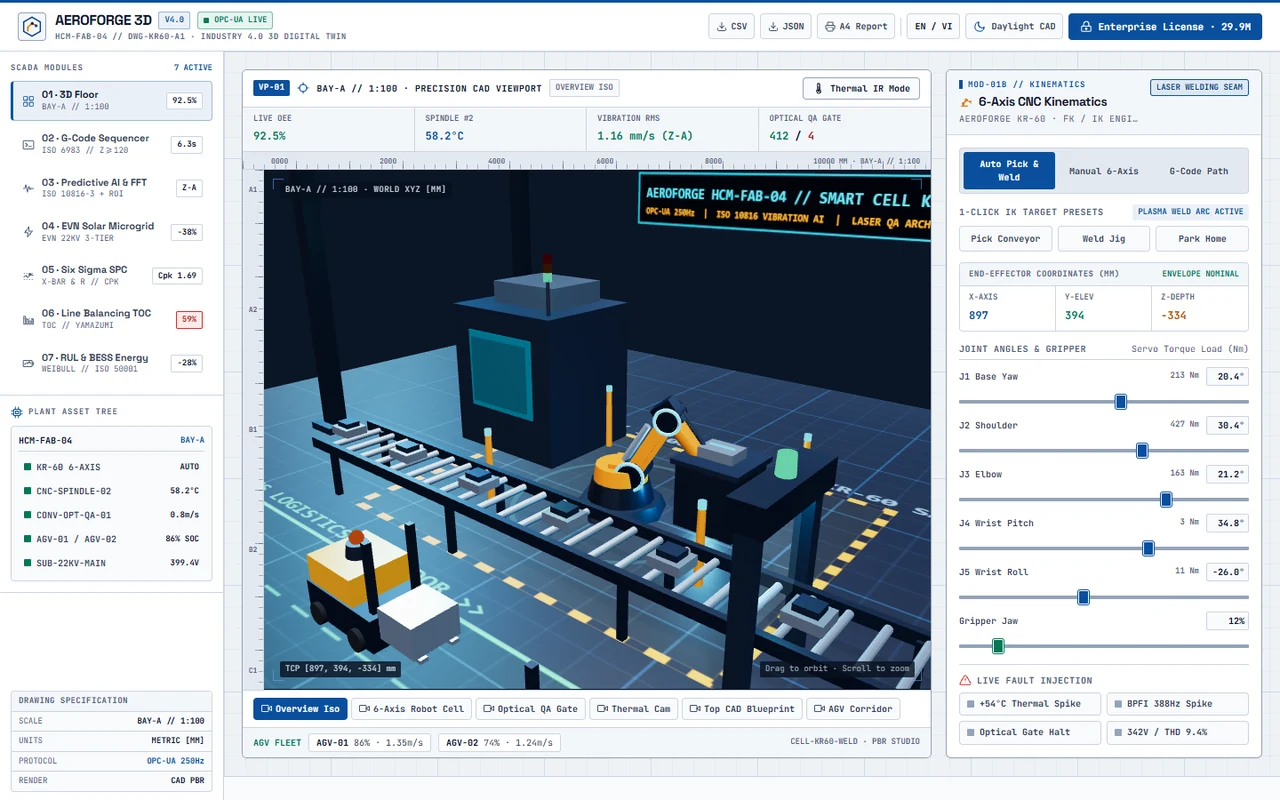
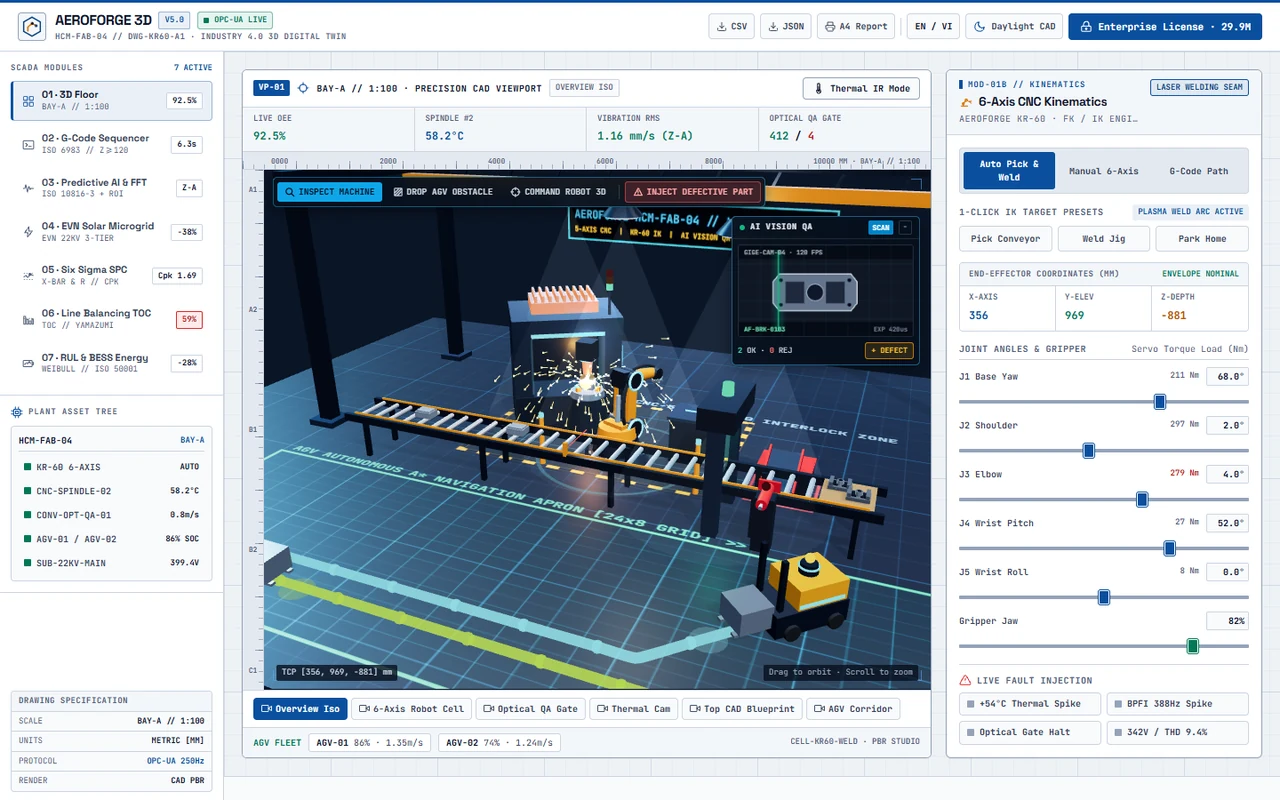
feat(v9.0): sync Velox v7.0, AeroForge v5.0, Helios v5.0 & 4,325 CI

diff --git a/src/engines/catalog.ts b/src/engines/catalog.ts
@@ -498,14 +498,14 @@ export const CATALOG_PRODUCTS: TemplateProduct[] = [
   {
     id: 'velox-ev-motors',
     sku: 'TVT-EV-11',
-    name: 'Velox EV Motors v6.0',
+    name: 'Velox EV Motors v7.0',
     subtitle: {
-      vi: 'Showroom Hypercar Điện 3D HDRI, Cửa Cánh Chim & Launch 0–100',
-      en: '3D HDRI Hypercar Showroom, Gullwing Doors & 0–100 Launch Telemetry',
+      vi: 'Lái Thử Hypercar 3D 320km/h, Đua Ghost Hologram 400m & Buồng Lái Velox OS',
+      en: 'Playable 3D EV Test-Drive (320 km/h), 400m Hologram Ghost Race & Velox OS Cockpit',
     },
     tagline: {
-      vi: 'Flagship 20 Triệu: Xe điện 3D PBR ánh sáng Studio HDRI, cửa cánh chim mở động, buồng lái OLED, đường hầm gió Cd 0.19, Launch Control 2.1s & lộ trình sạc 350kW xuyên Việt.',
-      en: '20M Flagship: Three.js PMREM Studio HDRI clearcoat EV, articulated gullwing doors, OLED cockpit POV, Cd 0.19 wind tunnel aero, 2.1s Web Audio launch control & VN 350kW routing.',
+      vi: 'Flagship 3D Chơi Thật: Lái trực tiếp chiếc xe vừa cấu hình (WASD/Bàn đạp) tới 320 km/h trên cao tốc ướt ban đêm, đua 0–400m với Ghost Hologram Taycan/Nevera, đĩa phanh gốm rực đỏ 850°C + Air-Brake +28°, 5 Hotspot 3D & buồng lái AR HUD.',
+      en: 'Playable 3D Hypercar: Drive your exact build (WASD/Pedals) up to 320 km/h on a wet midnight highway, race a 3D Hologram Ghost (Taycan/Nevera), 850°C glowing ceramic rotors + Air-Brake, 5 3D Raycast Hotspots & live Velox OS AR Cockpit.',
     },
     category: 'commerce-3d',
     categoryLabel: { vi: 'Bán Hàng 3D & Nội Thất', en: '3D Commerce & Interior' },
@@ -517,28 +517,28 @@ export const CATALOG_PRODUCTS: TemplateProduct[] = [
     deliveryDaysMax: 6,
     liveUrl: 'https://tvt987.github.io/velox-ev-motors/',
     previewImage: './media/velox-ev-motors.webp',
-    previewBadge: '3D HDRI HYPERCAR · GULLWING · 20M VIP',
+    previewBadge: '3D TEST DRIVE · GHOST RACE · VELOX OS',
     featuredRank: 1,
-    stack: ['.NET 10', 'Three.js HDRI', '3-Circuit Lab', 'Idempotent Lock'],
+    stack: ['.NET 10', 'Three.js 3D Drive', 'Ghost Race', 'Velox OS AR'],
     deliverables: {
       vi: [
-        'Sân khấu 3D PBR xoay 360 độ cho 3 dòng xe, 6 màu sơn kim loại, 3 bộ mâm & 3 nội thất',
-        'Phòng mô phỏng vật lý quãng đường thực tế theo vận tốc cao tốc, nhiệt độ & điều hòa',
-        'Bảng so sánh chi phí sở hữu 5 năm (miễn lệ phí trước bạ EV) & máy tính trả góp ngân hàng',
-        'Đặt lịch lái thử chống trùng khung giờ, lưu cấu hình Garage & xuất hồ sơ xe PDF A4',
+        'Lái thử 3D tương tác (WASD / Bàn đạp) tới 320 km/h, phanh gốm phát sáng 850°C, Air-Brake +28° & âm thanh 800V synth',
+        'Đua Drag 0–400m thời gian thực với 3D Hologram Ghost đối thủ (Taycan Turbo GT / Rimac Nevera / Model S Plaid)',
+        '5 điểm chạm Raycast 3D ngay trên thân xe + Buồng lái POV (AR HUD đồng bộ OLED 3D + Velox OS đổi đèn nội thất)',
+        'Link chia sẻ cấu hình #build=, Xuất Poster 1600p + QR & đặt lịch lái thử chống trùng khung giờ (.NET 10)',
       ],
       en: [
-        '360-degree Three.js PBR configurator across 3 EV models, 6 paints, 3 forged rims & FSD',
-        'Real-world aerodynamic drag & thermal HVAC WLTP range physics lab',
-        '5-year EV vs Petrol TCO savings breakdown + interactive bank auto-loan PMT simulator',
-        'Anti-double-booking showroom test-drive lock, Saved Garage & printable A4 spec sheet',
+        'Playable 60fps 3D Highway Test-Drive (WASD/Pedals to 320 km/h) with 850°C ceramic rotors, +28° Air-Brake & 800V audio',
+        'Real-time 0–400m drag duel against a 3D Cyan Hologram Ghost (Taycan Turbo GT / Rimac Nevera / Model S Plaid)',
+        '5 direct 3D Raycast Hotspots + interactive Cockpit POV (synced AR HUD, 3D OLED cluster & Velox OS ambient console)',
+        'Shareable #build= URL, 1600p Bespoke Poster PNG + QR & .NET 10 idempotent showroom reservation lock',
       ],
     },
     architectureNote: {
-      vi: 'Full-Stack Monorepo .NET 10 + Three.js PMREM HDRI, mô phỏng 3 trường đua (3-Circuit Lab) & Idempotent Lock đặt cọc xe chống trùng đơn.',
-      en: 'Full-Stack .NET 10 flagship pairing Three.js PMREM HDRI, 3-Circuit telemetry lab & idempotent EV reservation locking.',
+      vi: 'Full-Stack Monorepo .NET 10 + Trải nghiệm lái thử 3D 60fps, đua Ghost Hologram 0–400m, buồng lái AR Velox OS & khóa đơn Idempotent.',
+      en: 'Full-Stack .NET 10 flagship featuring playable 60fps 3D Test-Drive physics, 0–400m Hologram Ghost Race, Velox OS AR Cockpit & idempotent booking.',
     },
-    metricsBadge: '3D PBR EV · X-RAY 800V · 20M VIP',
+    metricsBadge: '3D TEST DRIVE · GHOST RACE · VELOX OS',
   },
   {
     id: 'solaris-academy',
@@ -903,14 +903,14 @@ export const CATALOG_PRODUCTS: TemplateProduct[] = [
   {
     id: 'aeroforge-digital-twin',
     sku: 'TVT-IOT-22',
-    name: 'AeroForge 3D Twin v4.0',
+    name: 'AeroForge 3D Twin v5.0',
     subtitle: {
-      vi: 'Bản Sao Số Nhà Máy 4.0 3D, Robot 6 Trục Kinematics & AI Dự Báo Lỗi FFT',
-      en: 'Industry 4.0 Smart Factory 3D Twin, 6-Axis Robot Kinematics & Vibration FFT AI',
+      vi: 'Nhà Máy 3D Chạy Thật Khép Kín, Tia Lửa CNC, Đặt Vật Cản A* AGV & Robot IK',
+      en: 'Playable Closed-Loop 3D Smart Factory: CNC Sparks, Click-to-Drop A* AGV Maze & 3D IK',
     },
     tagline: {
-      vi: 'Siêu Phẩm 29,9 Triệu: Sàn nhà máy 3D Three.js HDRI, cánh tay robot CNC 6 trục FK/IK thật, băng chuyền QA quang học, camera nhiệt hồng ngoại Ironbow, phổ rung động ổ bi FFT & tối ưu điện mặt trời EVN 3 khung giờ.',
-      en: '29.9M Ultra-Flagship: Live Three.js Smart Factory 3D floor, real 6-axis CNC robot FK/IK kinematics, optical QA conveyor, Ironbow thermal heatmap, bearing vibration FFT predictive AI & EVN solar optimizer.',
+      vi: 'Siêu Phẩm Nhà Máy 3D Sống Động: Băng chuyền quay thật -> Robot 6 trục KR-60 gắp phôi IK -> Phay CNC 160 hạt tia lửa nóng sáng -> Camera AI Vision phát hiện nứt đẩy phế phẩm -> Click thẳng sàn đặt vật cản ép đội AGV tự né A* <1ms.',
+      en: 'Live Closed-Loop 3D Factory: Spinning conveyor -> 6-axis KR-60 IK pick-and-place -> 5-axis CNC with 160 ballistic sparks -> AI Vision PIP micro-crack pneumatic reject -> Click floor to drop OSHA pallets forcing <1ms A* AGV rerouting.',
     },
     category: 'saas-ai',
     categoryLabel: { vi: 'SaaS & AI', en: 'SaaS & AI' },
@@ -922,40 +922,40 @@ export const CATALOG_PRODUCTS: TemplateProduct[] = [
     deliveryDaysMax: 10,
     liveUrl: 'https://tvt987.github.io/aeroforge-digital-twin/',
     previewImage: './media/aeroforge-digital-twin.webp',
-    previewBadge: '3D FACTORY TWIN · 6-AXIS IK · 29.9M ULTRA',
+    previewBadge: 'LIVE CNC SPARKS · A* AGV MAZE · 3D IK',
     featuredRank: 2,
-    stack: ['.NET 10', '6-Axis G-Code', 'Collision Guard', 'FFT ROI'],
+    stack: ['.NET 10', 'Three.js CNC Sparks', 'A* AGV Maze', '3D Robot IK'],
     deliverables: {
       vi: [
-        'Sàn nhà máy 3D Three.js HDRI: cánh tay robot CNC 6 trục FK/IK thật, băng chuyền QA quang học & đội xe AGV',
-        'Chế độ Camera nhiệt hồng ngoại Ironbow thời gian thực & 4 kịch bản tiêm lỗi công nghiệp tự sinh lệnh bảo trì AI',
-        'Phổ rung động ổ bi FFT (0–2.500 Hz) chuẩn ISO 10816 + đồ thị tuổi thọ còn lại Weibull RUL & OEE',
-        'Bộ tối ưu điện mặt trời áp mái + pin lưu trữ BESS theo biểu giá 3 khung giờ EVN + báo cáo ca PDF A4 / CSV BOM',
+        'Chu trình sản xuất 3D khép kín 60fps: băng chuyền phôi -> Robot KR-60 IK gắp thật -> phay CNC 160 tia lửa -> Piston đẩy lỗi',
+        'Tương tác trực tiếp trên sàn 3D: Click đặt pallet OSHA ép đội xe AGV vẽ lại đường A* 8 hướng <1ms (0 va chạm)',
+        'Click điều khiển tay Robot 6 trục tới tọa độ 3D bất kỳ + Click máy xem HUD nổi, khói quá nhiệt FLIR & tiêm lỗi AI Vision',
+        'Tích hợp trọn bộ Weibull RUL, tối ưu Pin BESS 3 khung giờ EVN (-28%), Six Sigma SPC Cpk & .NET 10 SCADA API',
       ],
       en: [
-        'Three.js HDRI Smart Factory bay with 6-axis FK/IK robotic arm, optical QA vision gate & AGV fleet',
-        'Real-time FLIR Ironbow 3D thermal heatmap overlay & 4 industrial fault injectors generating AI work orders',
-        'ISO 10816 bearing vibration FFT spectrum (0–2,500 Hz), Weibull RUL survival curve & live OEE cockpit',
-        'Vietnam EVN 3-tier industrial tariff & rooftop solar BESS optimizer with A4 shift dossier & CSV BOM',
+        '60fps closed-loop 3D production floor: moving conveyor -> KR-60 IK pick-and-place -> 160-spark CNC -> AI Vision pneumatic reject',
+        'Direct 3D floor interaction: click to drop OSHA safety pallets triggering live <1ms 8-directional A* AGV rerouting',
+        'Click-to-command 3D Robot IK reachability + click any machine for floating HUD, overheat smoke, FLIR & fault injection',
+        'Includes Weibull RUL survival, EVN 3-tier BESS peak-shaving (-28%), Six Sigma SPC Cpk & .NET 10 SCADA API',
       ],
     },
     architectureNote: {
-      vi: 'Full-Stack Monorepo .NET 10 + động học robot 6 trục G-Code, cảnh báo va chạm Collision Guard & phân tích ROI bảo trì rung động FFT.',
-      en: 'Full-Stack .NET 10 Industry 4.0 twin with 6-axis G-Code kinematics, real-time Collision Guard & predictive FFT maintenance ROI.',
+      vi: 'Full-Stack Monorepo .NET 10 SCADA + sàn nhà máy 3D chạy vòng lặp sản xuất thật, hạt tia lửa CNC, tìm đường A* AGV & động học ngược IK.',
+      en: 'Full-Stack .NET 10 Industry 4.0 twin with live closed-loop 3D CNC sparks, real-time A* AGV obstacle rerouting & analytical 6-axis IK.',
     },
-    metricsBadge: '3D FACTORY TWIN · 6-AXIS IK · 29.9M ULTRA',
+    metricsBadge: 'LIVE CNC SPARKS · A* AGV MAZE · 3D IK',
   },
   {
     id: 'helios-quant-terminal',
     sku: 'TVT-QNT-21',
-    name: 'Helios Quant Terminal v4.0',
+    name: 'Helios Quant Terminal v5.0',
     subtitle: {
-      vi: 'Sàn Khớp Lệnh L2 Orderbook, Biểu Đồ Nến Canvas & Backtest Thuật Toán Quant',
-      en: 'Institutional L2 Orderbook Matching Engine, Canvas Candlestick & Algo Backtester',
+      vi: 'Bookmap Heatmap Thanh Khoản Cá Voi, Vẽ Fib/R:R Kéo Lệnh Trực Tiếp & Đấu Bot Quant',
+      en: 'Bookmap L2 Liquidity Heatmap, Interactive Chart Drawing/R:R Trading & Live Algo Battle',
     },
     tagline: {
-      vi: 'Siêu Phẩm 28,9 Triệu: Nhân khớp lệnh Price-Time Priority 6 thị trường (BTC/ETH/VN30F1M/Vàng/NVDA), biểu đồ nến Canvas HiDPI (EMA/Bollinger/VWAP/RSI/MACD), mô phỏng sốc thanh khoản & Backtest 4 chiến lược 500 nến (<5ms).',
-      en: '28.9M Ultra-Flagship: Deterministic FIFO LOB matching engine across 6 markets (incl. VN30F1M), HiDPI Canvas candlesticks with EMA/BB/VWAP/RSI/MACD, flash-crash stress lab & sub-5ms 500-bar quant backtester.',
+      vi: 'Sàn Quant Chuẩn TradingView × Bookmap: Bản đồ nhiệt thanh khoản L2 phát sáng tường Cá Voi & cảnh báo SPOOF PULL, bong bóng khớp lệnh Volume, vẽ Trendline/Fibonacci/khung Risk:Reward đặt lệnh 1-click, kéo thả đường Limit & Đấu Trường Bot trực tiếp.',
+      en: 'TradingView × Bookmap Desk: Glowing L2 Whale Liquidity Heatmap + SPOOF PULL alerts, Volume Footprint bubbles, interactive Trendline/Fibonacci/Risk:Reward box with 1-click execution, draggable Limit lines & Live 3-Way Algo Battle Arena.',
     },
     category: 'enterprise-b2b',
     categoryLabel: { vi: 'Doanh Nghiệp, HR & FinTech', en: 'Enterprise, EdTech & FinTech' },
@@ -967,28 +967,28 @@ export const CATALOG_PRODUCTS: TemplateProduct[] = [
     deliveryDaysMax: 10,
     liveUrl: 'https://tvt987.github.io/helios-quant-terminal/',
     previewImage: './media/helios-quant-terminal.webp',
-    previewBadge: 'L2 MATCHING ENGINE · ALGO QUANT · 28.9M',
+    previewBadge: 'BOOKMAP HEATMAP · CHART R:R · ALGO BATTLE',
     featuredRank: 3,
-    stack: ['FastAPI', 'FIFO LOB', '6x6 Sharpe Map', 'Depth OFI'],
+    stack: ['FastAPI', 'Bookmap Heatmap', 'Chart R:R Trade', 'Live Algo Battle'],
     deliverables: {
       vi: [
-        'Nhân khớp lệnh Limit Order Book chuẩn FIFO 15×15 cấp giá cho 6 thị trường (BTC, ETH, SOL, VN30F1M, XAU, NVDA)',
-        'Biểu đồ nến OHLCV Canvas 2D HiDPI mượt 60fps kèm EMA 9/21, Bollinger Bands, VWAP, RSI(14) & MACD',
-        'Phòng mô phỏng sốc thanh khoản (Flash Crash -10%, Short Squeeze +12%, Whale Sweep $50M) & rủi ro Margin/Liquidation',
-        'Bộ Backtest 4 chiến lược thuật toán 500 nến (<5ms) tính Sharpe/Sortino/Calmar/VaR 99% & xuất sổ lệnh CSV BOM',
+        'Bookmap L2 Liquidity Heatmap 60fps: tường thanh khoản cá voi phát sáng, phát hiện SPOOF PULL & bong bóng khối lượng mua/bán',
+        'Bộ công cụ vẽ TradingView-Pro ngay trên chart (Trendline, S/R, Fibonacci 7 mức, khung Long/Short R:R bấm thực thi lệnh thật)',
+        'Kéo thả đường BUY/SELL LIMIT trực tiếp trên đồ thị + Thang lệnh 1-Click DOM Ladder đồng bộ sổ lệnh FIFO',
+        'Đấu Trường Bot trực tiếp (YOU vs MM-Alpha vs Apex-Momentum) kèm đồ thị Equity 3 đường, VaR/CVaR & SABR Vol Smile (FastAPI)',
       ],
       en: [
-        'Deterministic FIFO L2 Orderbook matching engine (15×15 levels) across 6 global & VN30F1M futures markets',
-        '60fps HiDPI Canvas 2D OHLCV candlestick chart with EMA 9/21, Bollinger Bands, VWAP, RSI(14) & MACD',
-        '1-click liquidity stress shock lab (Flash Crash, Short Squeeze, Whale Sweep) with live liquidation risk',
-        'Sub-5ms 500-bar quant backtester (4 strategies) with Sharpe/Sortino/VaR 99% & UTF-8 BOM blotter CSV',
+        '60fps Bookmap L2 Liquidity Heatmap with glowing whale walls, SPOOF PULL detection & translucent volume trade bubbles',
+        'TradingView-Pro chart toolbar (Trendline, S/R, 7-level Fibonacci, draggable Long/Short R:R box with 1-click execution)',
+        'Directly draggable BUY/SELL LIMIT order lines on chart + 1-Click DOM ladder wired to deterministic FIFO LOB',
+        'Live 3-Way Algo Battle Arena (YOU vs MM-Alpha vs Apex-Momentum) with live equity race, VaR/CVaR & SABR Vol Smile (FastAPI)',
       ],
     },
     architectureNote: {
-      vi: 'Full-Stack Monorepo FastAPI với nhân khớp lệnh FIFO LOB, bản đồ nhiệt Sharpe 6×6 & phân tích mất cân bằng sổ lệnh Depth OFI.',
-      en: 'Full-Stack FastAPI quant trading terminal combining deterministic FIFO LOB, 6x6 Sharpe heatmap & order-flow imbalance (OFI).',
+      vi: 'Full-Stack Monorepo FastAPI kết hợp Bookmap L2 Heatmap, giao dịch kéo thả trực tiếp trên biểu đồ, Đấu Trường Bot Quant & VaR/SABR.',
+      en: 'Full-Stack FastAPI quant desk uniting Bookmap L2 Liquidity Heatmap, direct-on-chart R:R trading, Live Algo Battle & VaR/SABR analytics.',
     },
-    metricsBadge: 'L2 MATCHING ENGINE · ALGO QUANT · 28.9M',
+    metricsBadge: 'BOOKMAP HEATMAP · CHART R:R · ALGO BATTLE',
   },
   {
     id: 'chronos-horology',

diff --git a/src/components/HeroSection.tsx b/src/components/HeroSection.tsx
@@ -36,7 +36,7 @@ export const HeroSection: React.FC<HeroSectionProps> = ({ locale, onPreviewLive 
       label: locale === 'vi' ? 'Hệ Thống & Pro Tools Live' : 'Live Apps & Pro Tools',
     },
     {
-      value: '4,241',
+      value: '4,325',
       label: locale === 'vi' ? 'Tests Xanh (.NET 10 / FastAPI / UI)' : 'Green Tests (.NET 10 / FastAPI / UI)',
     },
     {
